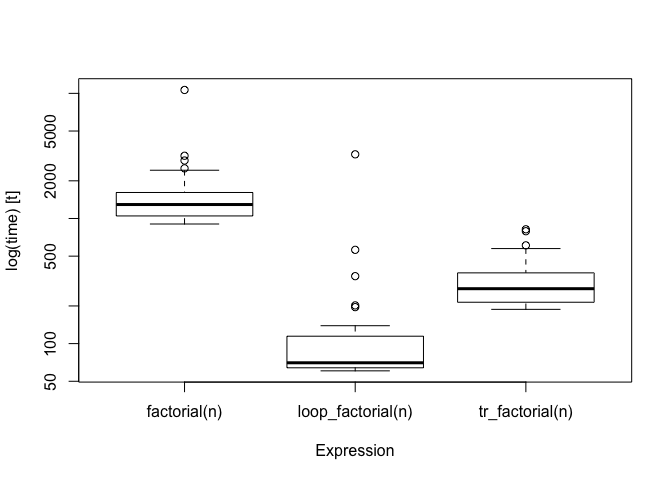
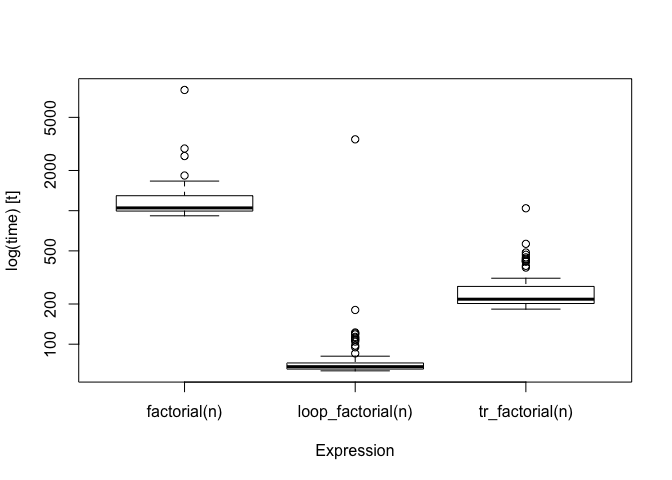
Rearranged badges

diff --git a/README.md b/README.md
@@ -4,12 +4,12 @@
 # tailr – Tail recursion optimisations for R programming
 
 [![Licence](https://img.shields.io/badge/licence-GPL--3-blue.svg)](https://www.gnu.org/licenses/gpl-3.0.en.html)
+[![lifecycle](https://img.shields.io/badge/lifecycle-maturing-blue.svg)](https://www.tidyverse.org/lifecycle/#maturing)
 [![Project Status: Active – The project has reached a stable, usable
 state and is being actively
 developed.](http://www.repostatus.org/badges/latest/active.svg)](http://www.repostatus.org/#active)
-[![lifecycle](https://img.shields.io/badge/lifecycle-maturing-blue.svg)](https://www.tidyverse.org/lifecycle/#maturing)
-[![Last-changedate](https://img.shields.io/badge/last%20change-2018--03--01-orange.svg)](/commits/master)
-[![packageversion](https://img.shields.io/badge/Package%20version-0.1.0.9000-orange.svg?style=flat-square)](commits/master)
+[![Last-changedate](https://img.shields.io/badge/last%20change-2018--03--01-green.svg)](/commits/master)
+[![packageversion](https://img.shields.io/badge/Package%20version-0.1.0.9000-green.svg?style=flat-square)](commits/master)
 
 [![Travis build
 status](https://travis-ci.org/mailund/tailr.svg?branch=master)](https://travis-ci.org/mailund/tailr)
@@ -122,14 +122,14 @@ bm <- microbenchmark::microbenchmark(factorial(n),
                                      tr_factorial(n))
 bm
 #> Unit: microseconds
-#>               expr     min        lq      mean    median       uq
-#>       factorial(n) 903.457 1047.9920 1474.2318 1292.6960 1613.522
-#>  loop_factorial(n)  60.581   64.0740  125.4481   70.2715  114.594
-#>    tr_factorial(n) 187.846  214.0985  304.6220  274.7155  367.581
-#>        max neval
-#>  10646.153   100
-#>   3257.254   100
-#>    819.799   100
+#>               expr     min       lq      mean    median        uq      max
+#>       factorial(n) 915.490 993.3580 1242.0908 1049.0525 1294.5065 8020.541
+#>  loop_factorial(n)  63.154  65.1075  106.8807   67.8685   72.3585 3422.841
+#>    tr_factorial(n) 183.079 201.7145  254.5395  217.2860  270.8500 1042.639
+#>  neval
+#>    100
+#>    100
+#>    100
 boxplot(bm)
 ```
 
@@ -240,7 +240,7 @@ tr_llength
 #>         }
 #>     })
 #> }
-#> <bytecode: 0x7fa6fc51e878>
+#> <bytecode: 0x7fe11b0883f8>
 ```
 
 but, then, it is not one we want to manually inspect in any case.
@@ -263,13 +263,13 @@ bm <- microbenchmark::microbenchmark(llength(test_llist),
 bm
 #> Unit: milliseconds
 #>                      expr      min       lq     mean   median       uq
-#>       llength(test_llist) 65.29950 71.96602 76.70787 75.52536 80.73864
-#>  loop_llength(test_llist) 73.29198 79.22707 83.82211 82.37145 86.39553
-#>    tr_llength(test_llist) 42.13560 47.16231 50.56279 49.92456 52.89348
-#>        max neval
-#>  131.01727   100
-#>  131.20724   100
-#>   79.30786   100
+#>       llength(test_llist) 62.83734 70.42454 79.87564 75.76874 84.40722
+#>  loop_llength(test_llist) 64.96645 75.61720 85.98287 81.99561 90.02652
+#>    tr_llength(test_llist) 40.61448 46.72366 54.43987 50.22399 58.79248
+#>       max neval
+#>  128.6517   100
+#>  143.6397   100
+#>   96.3314   100
 boxplot(bm)
 ```
 
